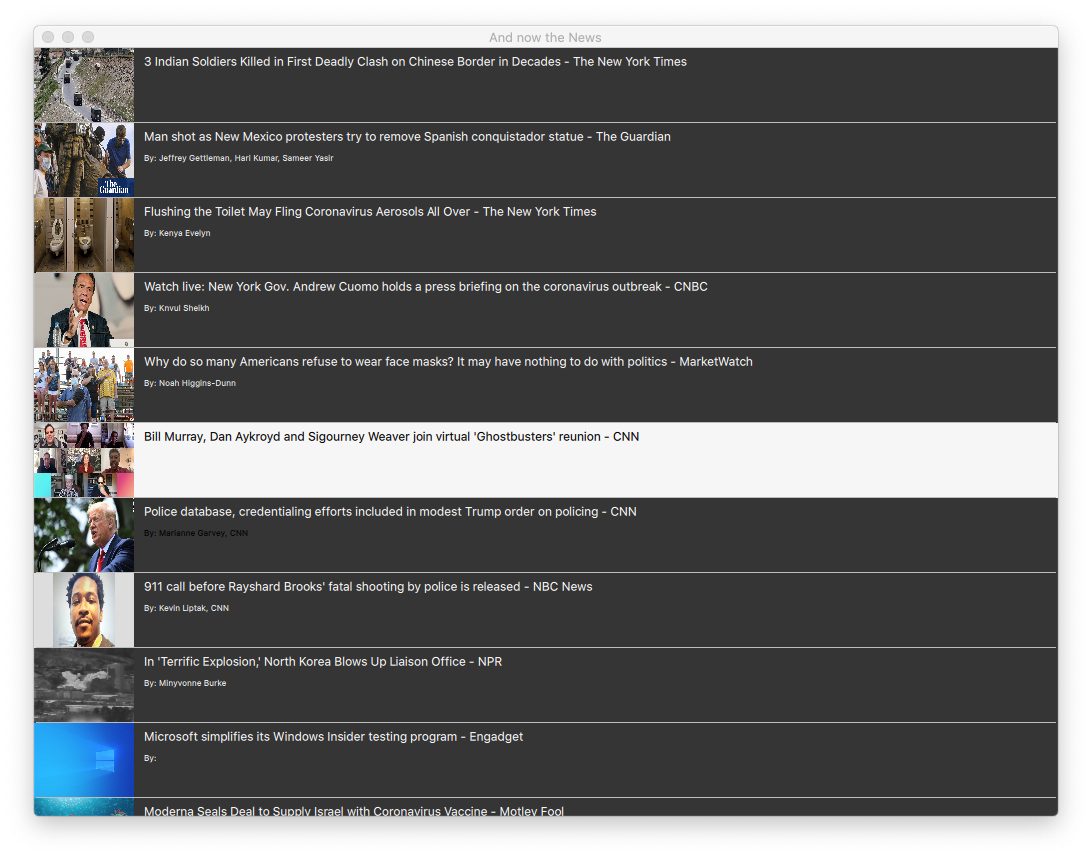
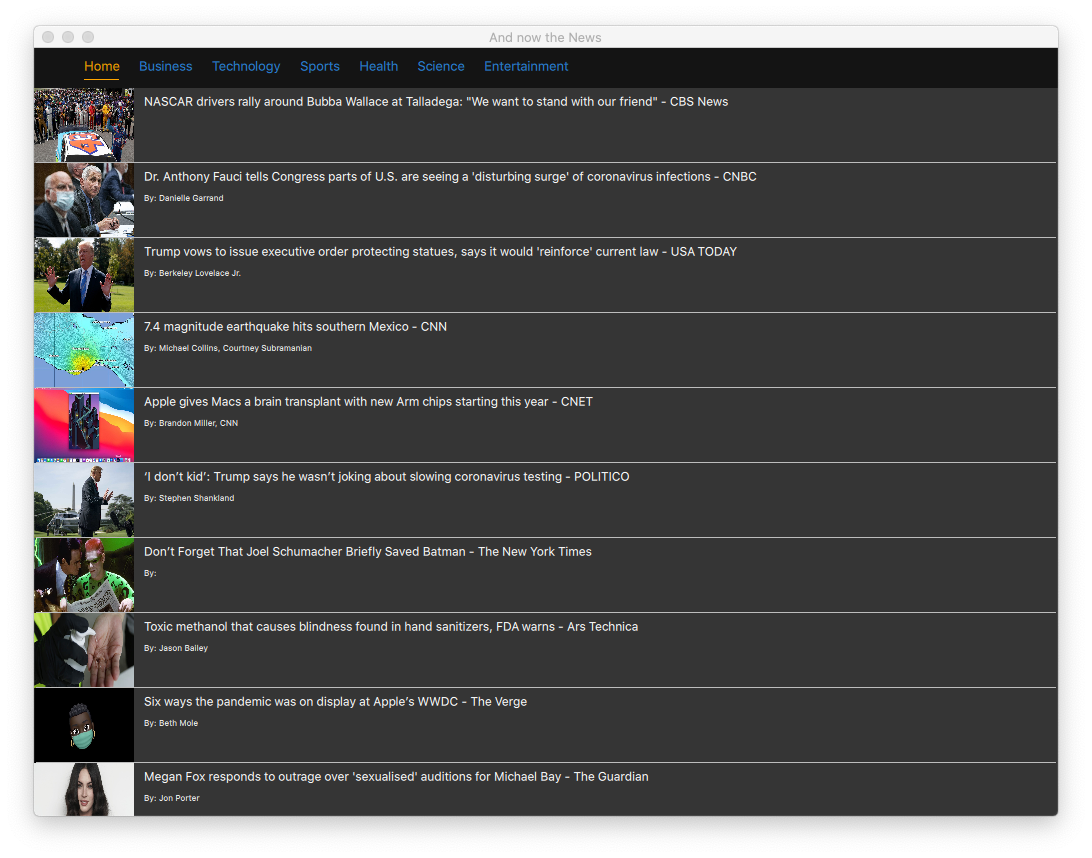
News Category selection. Updated Readme.

Changed region(s): [[0.0311, 0.0303, 0.9963, 0.9697]]

diff --git a/NewsWindow.qml b/NewsWindow.qml
@@ -6,6 +6,7 @@ NewsWindowForm {
     SystemPalette {id: newsPalette; colorGroup: SystemPalette.Active }
     Component.onCompleted: {
         print("Calling for News Headlines")
+        news.setCategory("general")
         news.getHeadlines()
         newsSelection.currentIndex = 0
     }
@@ -42,19 +43,31 @@ NewsWindowForm {
 
         ListElement {
             name: "Home"
-            key: "BREAKING"
+            category: "general"
         }
         ListElement {
             name: "Business"
-            key: "BUSINESS"
+            category: "business"
         }
         ListElement {
             name: "Technology"
-            key: "TECHNOLOGY"
+            category: "technology"
         }
         ListElement {
             name: "Sports"
-            key: "SPORTS"
+            category: "sports"
+        }
+        ListElement {
+            name: "Health"
+            category: "health"
+        }
+        ListElement {
+            name: "Science"
+            category: "science"
+        }
+        ListElement {
+            name: "Entertainment"
+            category: "entertainment"
         }
     }
 }

diff --git a/NewsWindowForm.ui.qml b/NewsWindowForm.ui.qml
@@ -36,6 +36,7 @@ Page {
 
 
             delegate: ItemDelegate {
+                width: metrics.width + 20
                 Text {
                     id: nameText
                     text: name
@@ -63,6 +64,8 @@ Page {
                     target: topMouse
                     onPressed: {
                         newsSelection.currentIndex = index
+                        news.setCategory(category)
+                        news.getHeadlines()
                     }
                 }
             }

diff --git a/news.h b/news.h
@@ -7,7 +7,13 @@
 #include <QJsonObject>
 #include "QNetworkAccessManager"
 
+#define API_BASE "newsapi.org"
+#define API_VERSION "v2"
+#define COUNTRY "us"
+#define HOME "top-headlines"
 #define API_KEY_KEY "NEWS_API_KEY"
+
+
 
 extern QQmlContext* rootContext;
 
@@ -23,7 +29,9 @@ public:
     }
     Q_INVOKABLE bool isApiKeySet();
     Q_INVOKABLE QString getApiKeyName();
-
+    Q_INVOKABLE void setCategory(QString category) {
+        m_category = category;
+    }
 public slots:
     void onManagerFinished(QNetworkReply *reply);
 
@@ -36,6 +44,7 @@ private:
     QString m_status;
     qint64 m_totalResults;
     QJsonArray m_articles;
+    QString m_category;
 
 public:
     QByteArray articles;

diff --git a/news.cpp b/news.cpp
@@ -26,7 +26,9 @@ void NewsClass::getHeadlines()
 {
     QTextStream(stdout) << "Getting News Headlines";
 
-    QUrl headlinesUrl(QString("http://newsapi.org/v2/top-headlines?country=us&apiKey=") + apiKey);
+    QString categoryString = QString("&category=%1").arg(m_category);
+
+    QUrl headlinesUrl(QString("http://%1/%2/%3?country=%4%5&apiKey=%6").arg(API_BASE, API_VERSION, HOME, COUNTRY, categoryString, apiKey));
     QNetworkRequest request;
     request.setUrl(headlinesUrl);
     request.setRawHeader("User-Agent", "MyOwnBrowser 1.0");

diff --git a/README.md b/README.md
@@ -4,7 +4,7 @@ A simple NewsApi viewer written in Qt Quick
 # What it Is
 Small Qt Quick demo app. Loads a list of news items from NewsApi.org and provides a UI to navigate between them.
 
-The app starts off with a list to browse news stories.
+The app starts off with a list to browse news stories. General news categories can be selected from the top navigation area. Selecting a new category will cause the list of news stories to update.
 
 ![News Story List](./screencapture/news-list.png)
 
